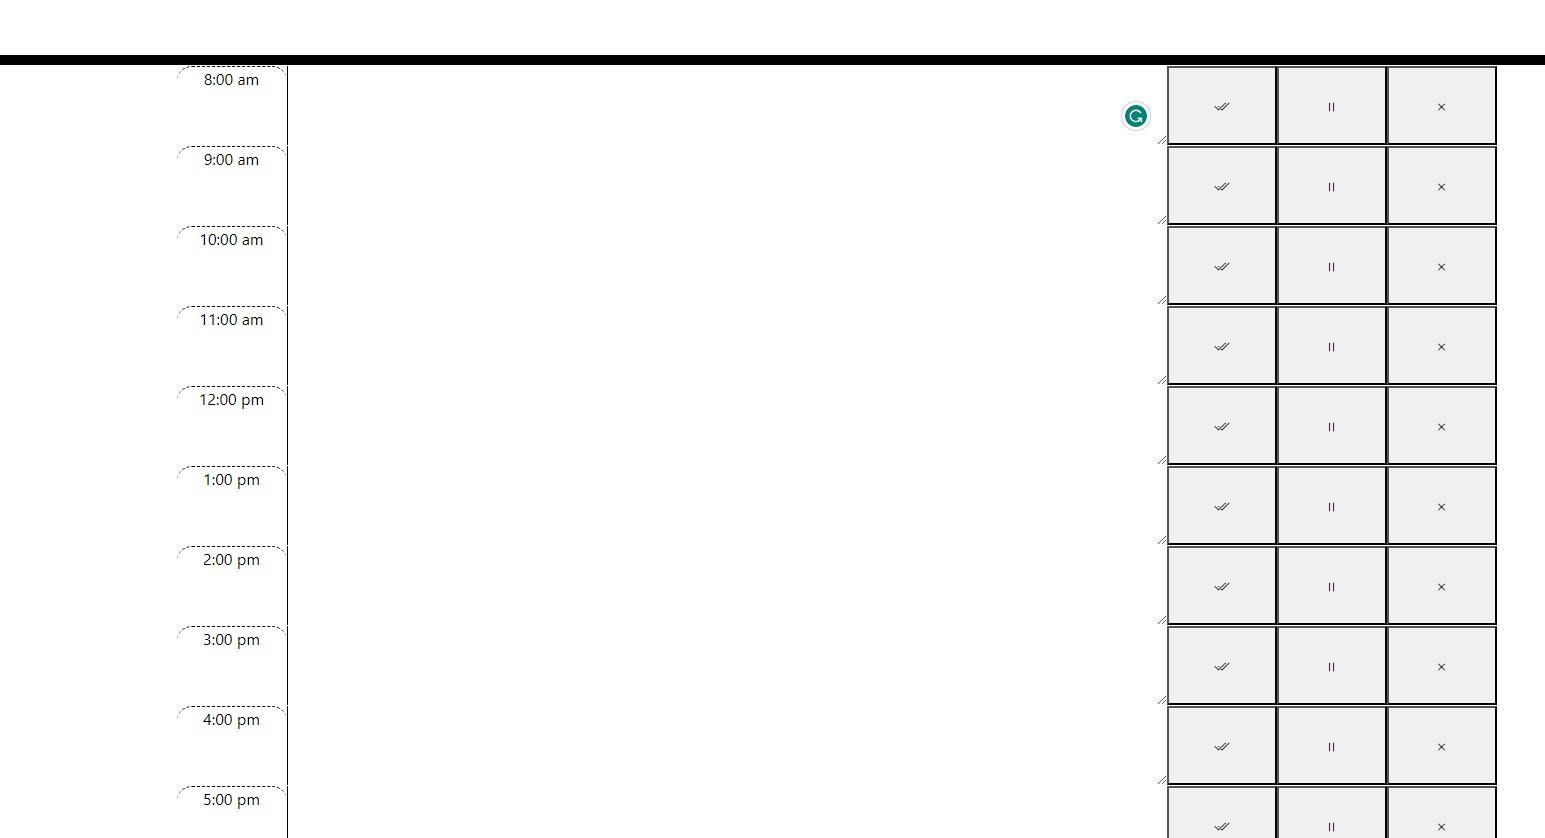
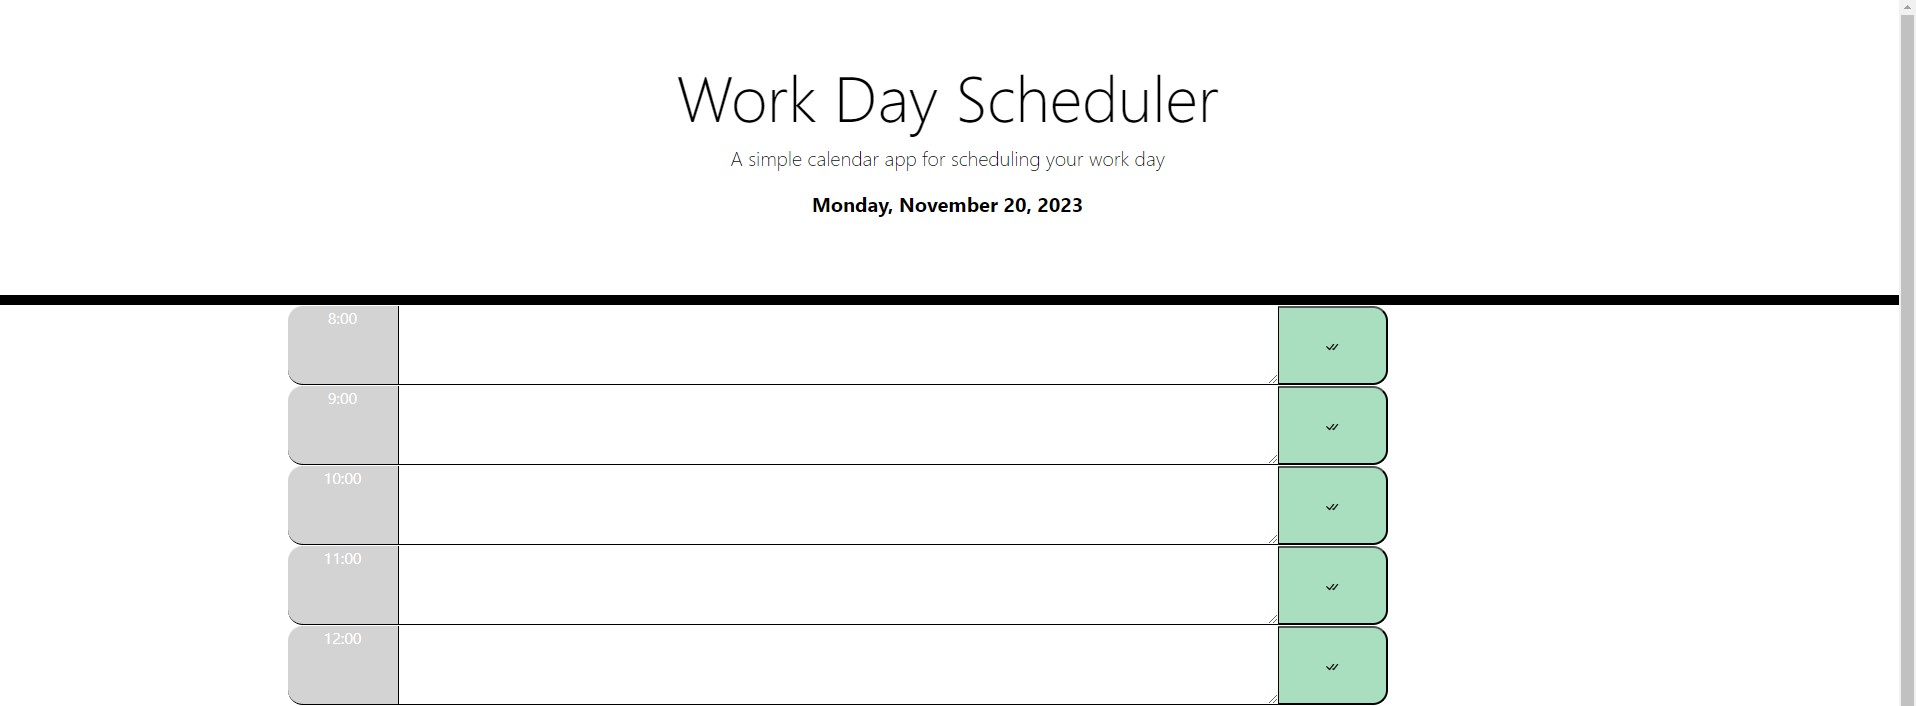
local storage fuction added

diff --git a/assets/js/script.js b/assets/js/script.js
@@ -1,24 +1,79 @@
-
 // Adding the current day to calendar
-var currentDate = dayjs().format('dddd, MMMM D, YYYY');
-$("#currentDay").text(currentDate);
+var currentDate = dayjs ().format ('dddd, MMMM D, YYYY');
+$ ('#currentDay').text (currentDate);
 
 // Present time-blocks for standard business hours when the user scrolls down.
+function generateTimeBlocks () {
+  var container = $ ('#blockTime'); //blocking hours
+  var businessHours = [
+    '8:00',
+    '9:00',
+    '10:00',
+    '11:00',
+    '12:00',
+    '13:00',
+    '14:00',
+    '15:00',
+    '16:00',
+    '17:00',
+  ];
+  businessHours.forEach (function (hour) {
+    var hourFormatted = dayjs (hour, 'H:m').format ('h a'); // Formatting hours
+    var timeBlock = `
+    <div class="row">
+    </div><div class="col-1 hour time-block">${HourFormatted}</div>
+    <textarea class="col-8 input"></textarea>
+    <button class="col-1 saveBtn fw-bold text-black"><i class="bi bi-check-all"></i></button>
+    </div>
+  `;
+  });
+}
+$ (document).ready (function () {
+  generateTimeBlocks ();
+});
 
 // Color-code each timeBlock based on past, present, and future when the timeBlock is viewed.
-var presentTime =dayjs().hour();  // Current hour
-$(".time-block").each(function(){
-  var blockedHour = parseInt($(this).text().split("")[0]);
+var presentTime = dayjs ().hour (); // Current hour
+$ ('.time-block').each (function () {
+  var blockedHour = parseInt ($ (this).text ().split ('')[0]);
   if (blockedHour < presentTime) {
-  $(this).addClass("past");
+    $ (this).addClass ('past');
   } else if (blockedHour === presentTime) {
-    $(this).addClass("present");
+    $ (this).addClass ('present');
   } else {
-    $(this).addClass("future");
+    $ (this).addClass ('future');
   }
 });
+
 // Allow a user to enter an event when they click a timeBlock
+$ ('.input').on ('.click', function () {
+  $ (this).css ('pointer-events', 'auto');
+});
 
 // Save the event in local storage when the save button is clicked in that timeBlock.
+$ ('.saveBtn').on ('click', function () {
+  var eventText = $ (this).siblings ('textarea').val (); // Get text from textarea
+  var hour = $ (this).siblings ('.hour').text ().split (' ')[0]; // Extract hour from the time block
+
+  localStorage.setItem (hour, eventText); // Saving to local storage
+});
 
 // Persist events between refreshes of a page
+$ (document).ready (function () {
+  $ ('.hour').each (function () {
+    var hour = $ (this).text ().split (' ')[0]; // Load saved events from local storage
+    var savedEvent = localStorage.getItem (hour);
+    if (savedEvent) {
+      $ (this).siblings ('textarea').val (savedEvent);
+    }
+  });
+
+  $ ('.saveBtn').on ('click', function () {
+    // Event listener for saving events
+    var eventText = $ (this).siblings ('textarea').val (); // Get text from textarea
+    var hour = $ (this).siblings ('.hour').text ().split (' ')[0]; // Extract hour from the time block
+
+    // Save eventText in local storage using hour as the key
+    localStorage.setItem (hour, eventText);
+  });
+});

diff --git a/index.html b/index.html
@@ -33,7 +33,7 @@
   <div class="container" id="blockTime">
     <!-- timeBlocks go here -->
     <div class="row">
-      <div class="col-1 hour time-block">8:00</div>
+      <div class="col-1 hour time-block" fw-bold text-black >8:00</div>
       <textarea id="8" class="col-8 input"></textarea>
       <button class="col-1 saveBtn fw-bold text-black"><i class="bi bi-check-all"></i></button>
     </div>

diff --git a/assets/css/style.css b/assets/css/style.css
@@ -42,13 +42,13 @@ header {
 }
 
 .hour {
-  background-color: #ffffff;
+  background-color: black;
   color: #000000;
   border-bottom: 1px solid black;
   }
 
 .past {
-  background-color: #d3d3d3;
+  background-color: #d3d3d38a;
   color: white;
 }
 
